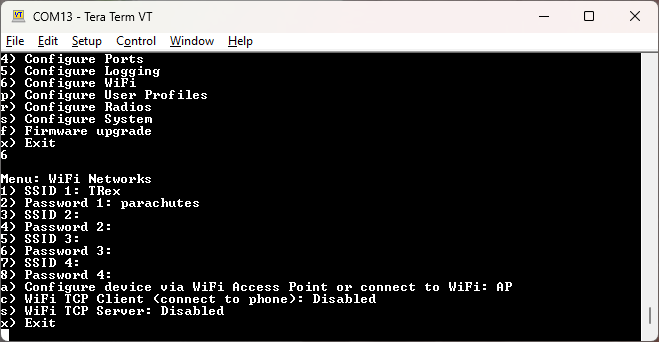
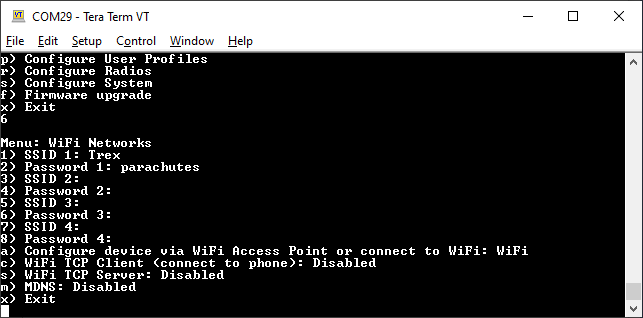
Update docs for v3.4

Changed region(s): [[0.0, 0.0, 1.0, 1.0], [0.7776, 0.7642, 0.8087, 0.8208], [0.8709, 0.9906, 0.902, 1.0]]

diff --git a/docs/configure_pointperfect.md b/docs/configure_pointperfect.md
@@ -4,17 +4,17 @@ Surveyor: ![Feature Not Supported](img/RedDot.png) / Express: ![Feature Not Supp
 
 **Note:** This section only applies to RTK Facet *L-Band* products. Regular RTK Facet, Surveyor, Express, and Express Plus products do not have L-Band antennas or receivers built-in.
 
-![PointPerfect Menu showing Home WiFi credentials](img/SparkFun%20RTK%20PointPerfect%20Config.png)
+![PointPerfect Menu](img/SparkFun%20RTK%20PointPerfect%20Config.png)
 
 *Configuring PointPerfect settings over WiFi*
 
-![PointPerfect Menu showing Home WiFi credentials](img/SparkFun%20RTK%20PointPerfect%20Menu.png)
+![PointPerfect Menu](img/SparkFun%20RTK%20PointPerfect%20Menu.png)
 
 *Configuring PointPerfect settings over serial*
 
 *RTK Facet L-Band* products are equipped with a special antenna and extra receiver to decrypt the L-Band corrections using the PointPerfect service from u-blox. The PointPerfect sub-menu allows a user to enter their 'Home' WiFi settings. This WiFi SSID and password are used to regularly obtain the needed decryption keys from u-blox. This is normally your home WiFi or other accessible WiFi.
 
-PointPerfect L-Band decryption keys are valid for a maximum of 56 days. During that time, the RTK Facet L-Band can operate normally without the need for WiFi access. However, when the keys are set to expire in 28 days or less, the RTK Facet L-Band will attempt to log in to the 'Home' WiFi at each power on. If WiFi is not available, it will continue normal operation. If the keys fully expire, the device will continue to receive the L-Band signal but will be unable to decrypt the signal, disabling high precision GNSS. The RTK Facet L-Band will continue to have extraordinary accuracy (we've seen better than 0.15m HPA) but not the centimeter-level accuracy that comes with RTK.
+PointPerfect L-Band decryption keys are valid for a maximum of 56 days. During that time, the RTK Facet L-Band can operate normally without the need for WiFi access. However, when the keys are set to expire in 28 days or less, the RTK Facet L-Band will attempt to log in to WiFi at each power on. If WiFi is not available, it will continue normal operation. If the keys fully expire, the device will continue to receive the L-Band signal but will be unable to decrypt the signal, disabling high precision GNSS. The RTK Facet L-Band will continue to have extraordinary accuracy (we've seen better than 0.15m HPA) but not the centimeter-level accuracy that comes with RTK.
 
 **Note:** The RTK Facet L-Band is capable of receiving RTCM corrections over traditional means including NTRIP data over Bluetooth or a serial radio. But the real point of L-Band and PointPerfect is that you can be *anywhere*, without cellular or radio cover, and still enjoy millimeter accuracy.
 
@@ -30,21 +30,19 @@ The unit will display various messages to aid the user in obtaining keys as need
 
 Upon successful reception and decryption of PointPerfect corrections, the satellite dish icon will increase to a three-pronged icon. As the unit's fix increases the cross-hair will indicate a basic 3D solution, a double blinking cross-hair will indicate a floating RTK solution, and a solid double cross-hair will indicate a fixed RTK solution.
 
-![PointPerfect Menu showing Home WiFi credentials](img/SparkFun%20RTK%20PointPerfect%20Menu.png)
+![PointPerfect Menu](img/SparkFun%20RTK%20PointPerfect%20Menu.png)
 
-*PointPerfect Menu showing Home WiFi credentials*
-
-In addition to allowing the entry of WiFi credentials, the PointPerfect Menu will display the Device ID. This is needed when a SparkFun RTK Facet L-Band product needs to be added to the PointPerfect system. This is normally taken care of when you purchase the L-Band unit with PointPerfect service added, but for customers who did not purchase the service and want to add it at a later date, this Device ID is what customer service needs.
+*PointPerfect Menu*
 
 The *Days until keys expire* inform the user how many days the unit has until it needs to connect to WiFi to obtain new keys.
 
 * Option '1' disables the use of PointPerfect corrections.
 
-* Option '2' or '3' enables the entry of WiFi credentials used for obtaining new keys from the PointPerfect API.
+* Option '2' disables the automatic attempts at WiFi connections when key expiry is less than 28 days.
 
-* Option '4' disables the automatic attempts at WiFi connections when key expiry is less than 28 days.
+* Option '3' will trigger an immediate attempt to connect over WiFi and update the keys.
 
-* Option '5' will trigger an immediate attempt to connect over WiFi and update the keys.
+* Option '4' will display the Device ID. This is needed when a SparkFun RTK Facet L-Band product needs to be added to the PointPerfect system. This is normally taken care of when you purchase the L-Band unit with PointPerfect service added, but for customers who wish to extend their subscription beyond the initial year, or did not purchase the service and want to add it at a later date, this Device ID is what customer service needs.
 
 * Option 'k' will bring up the Manual Key Entry menu.
 

diff --git a/docs/menu_wifi.md b/docs/menu_wifi.md
@@ -48,3 +48,8 @@ Configuring over WiFi allows the device to be configured from any desktop comput
 
 When the device enters WiFi config mode it will display the WiFi network it is connected to as well as its assigned IP address.
 
+## MDNS
+
+![Access using rtk.local](img/SparkFun%20RTK%20WiFi%20MDNS.png)
+
+Multicast DNS or MDNS allows the RTK device to be discovered over wireless networks without needing to know the IP. For example, when MDNS is enabled, simply type 'rtk.local' into a browser to connect to the RTK Config page. This feature works both for 'WiFi Access Point' or direct WiFi config. Note: When using WiFi config, you must be on the same subdomain (in other words, the same WiFi or Ethernet network) as the RTK device.
